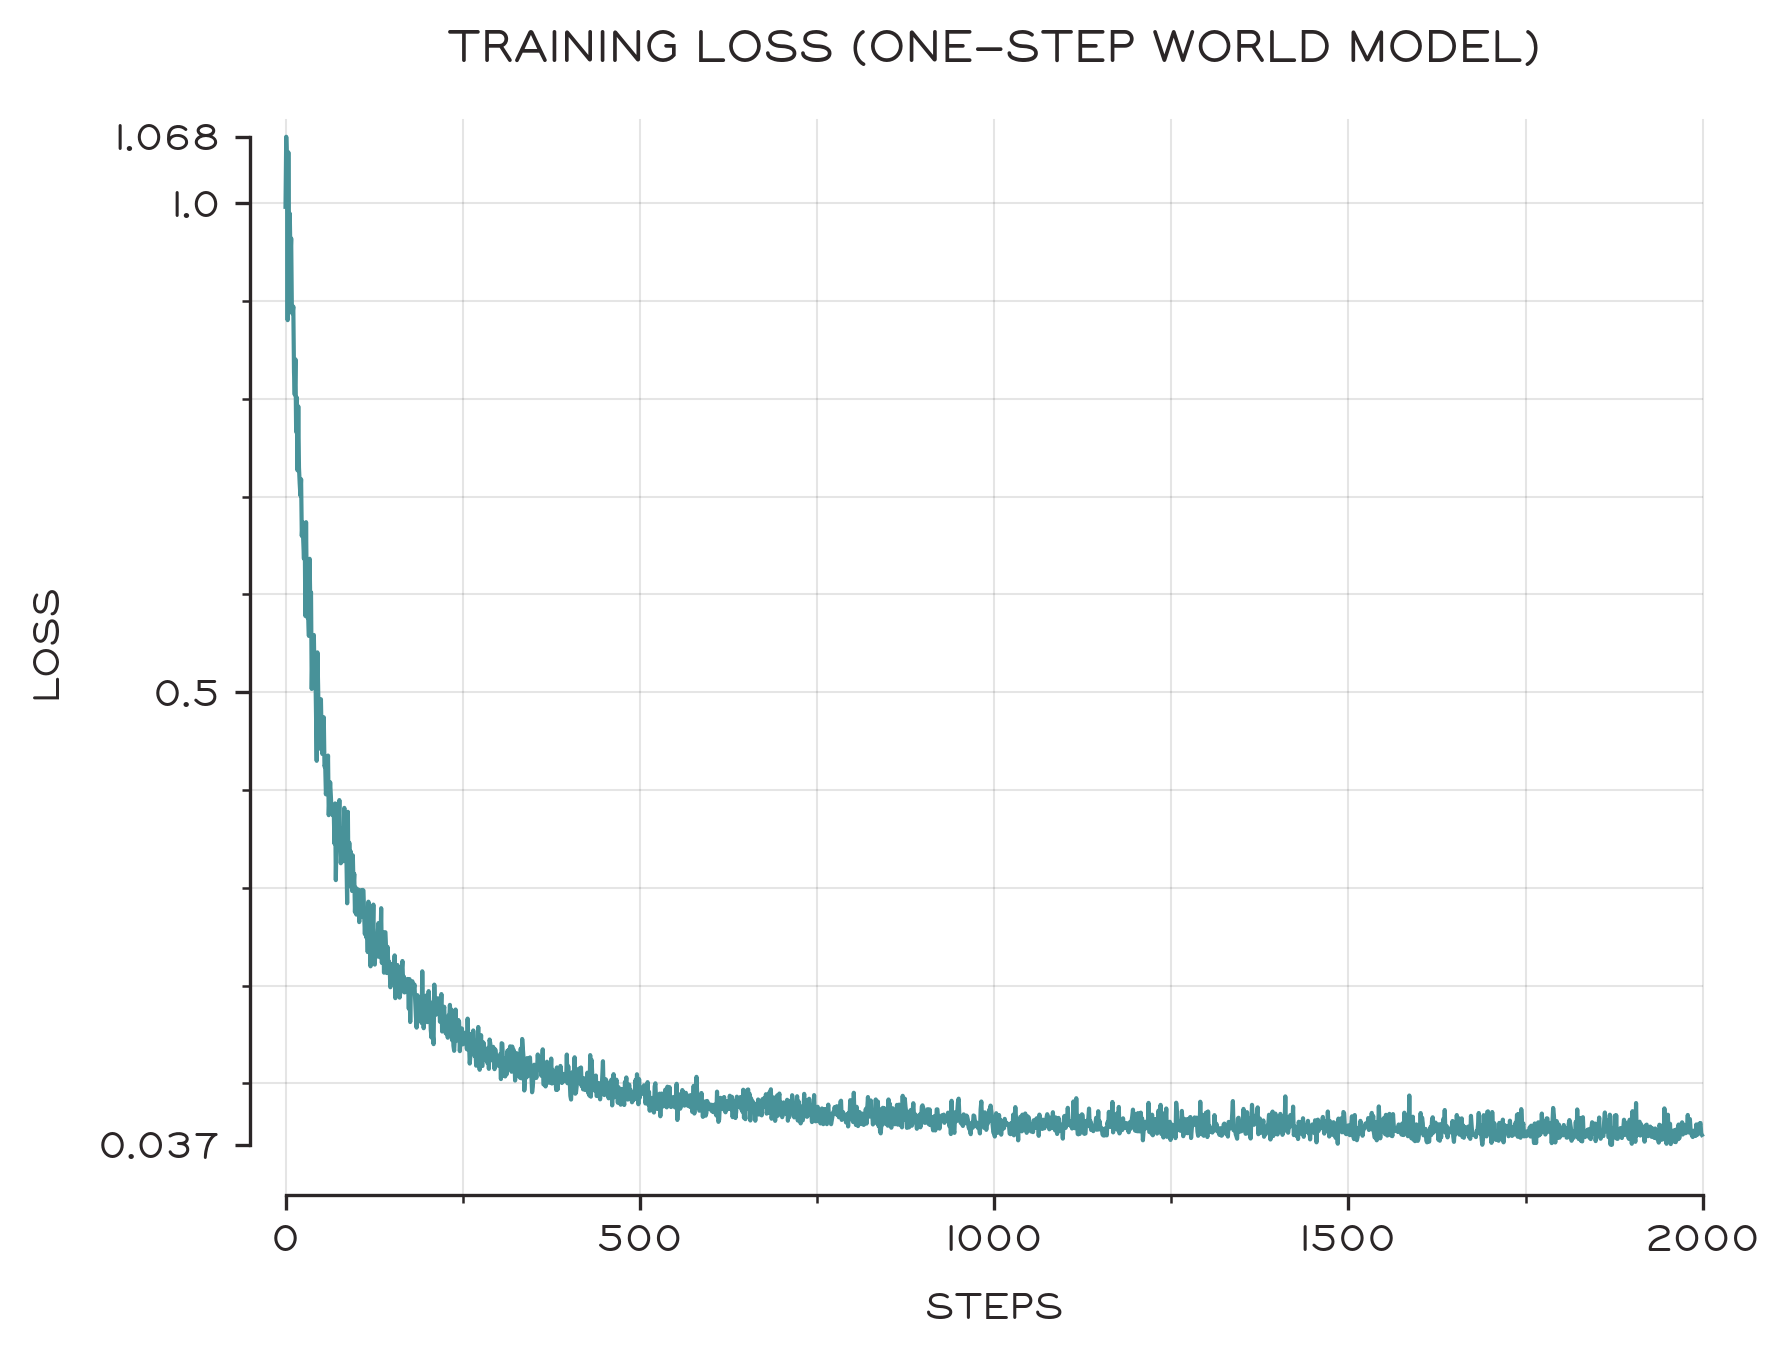
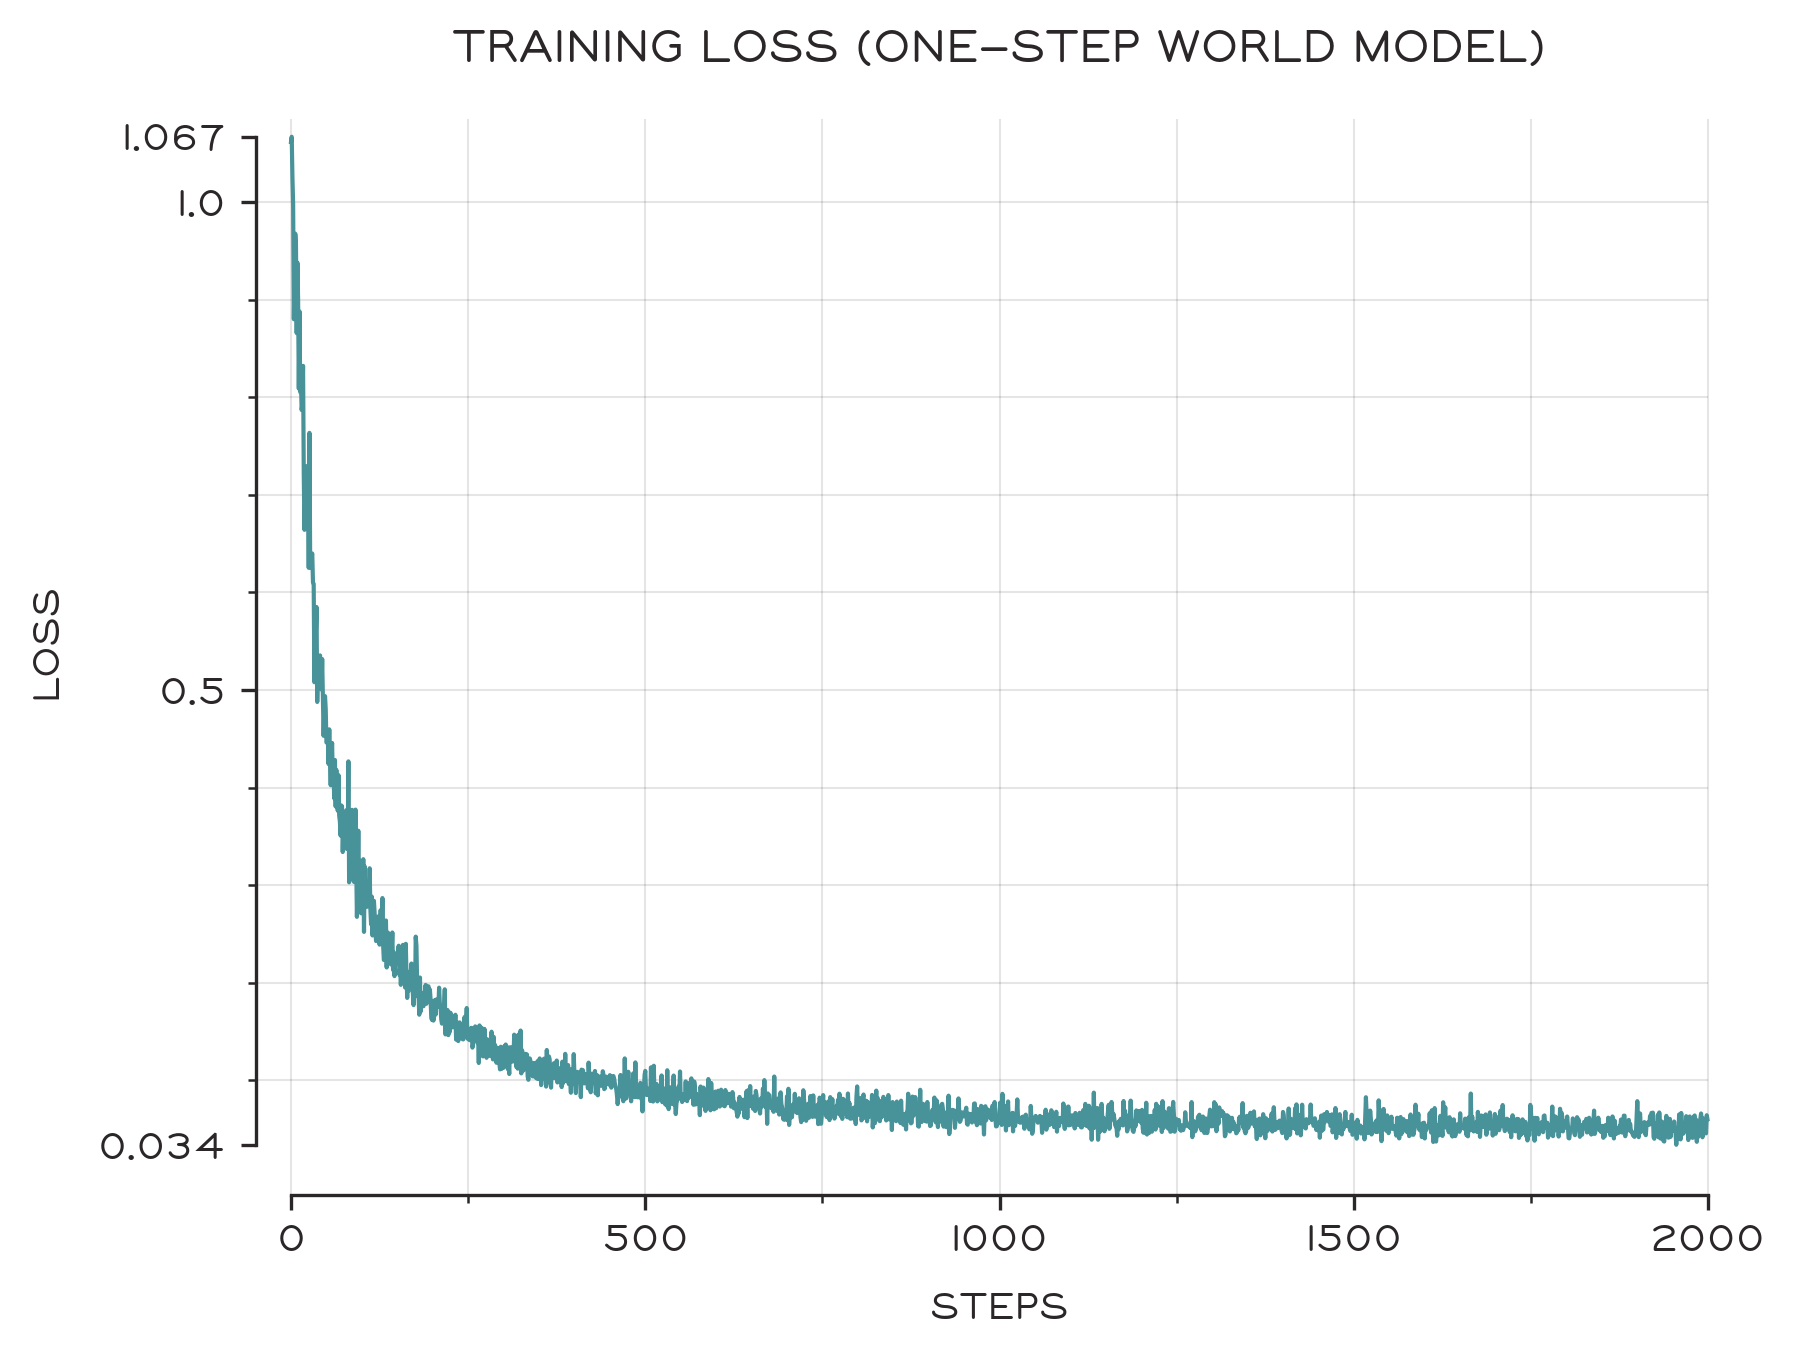
Minor bugfix

diff --git a/_posts/2026-06-01-simple-world-model.md b/_posts/2026-06-01-simple-world-model.md
@@ -118,8 +118,6 @@ We'll combine our loss function with a fairly bog-standard `nnx` training loop. 
 
 ```python
 model = OneStepWorldModel(nnx.Rngs(0))
-batch = sample_batch(buffers, jax.random.key(0))
-key = jax.random.key(0)
 
 n_train_steps = 2000
 # Use a simple learning rate schedule, which halves halfway
@@ -142,9 +140,10 @@ def train_step(model, optimizer, key):
     # This is where the model weights actually get updated.
     optimizer.update(model, grads)
 
+key = jax.random.key(0)
 for _ in range(n_train_steps):
     step_key, key = jax.random.split(key)
-    train_step(model, optimizer, key)
+    train_step(model, optimizer, step_key)
 ```
 
 And we get a nice looking loss curve. It looks like our network has learned to model _something_, but loss is pretty meaningless --- we care about results! To assess the usefulness of our world model, let's use it to control a cart.